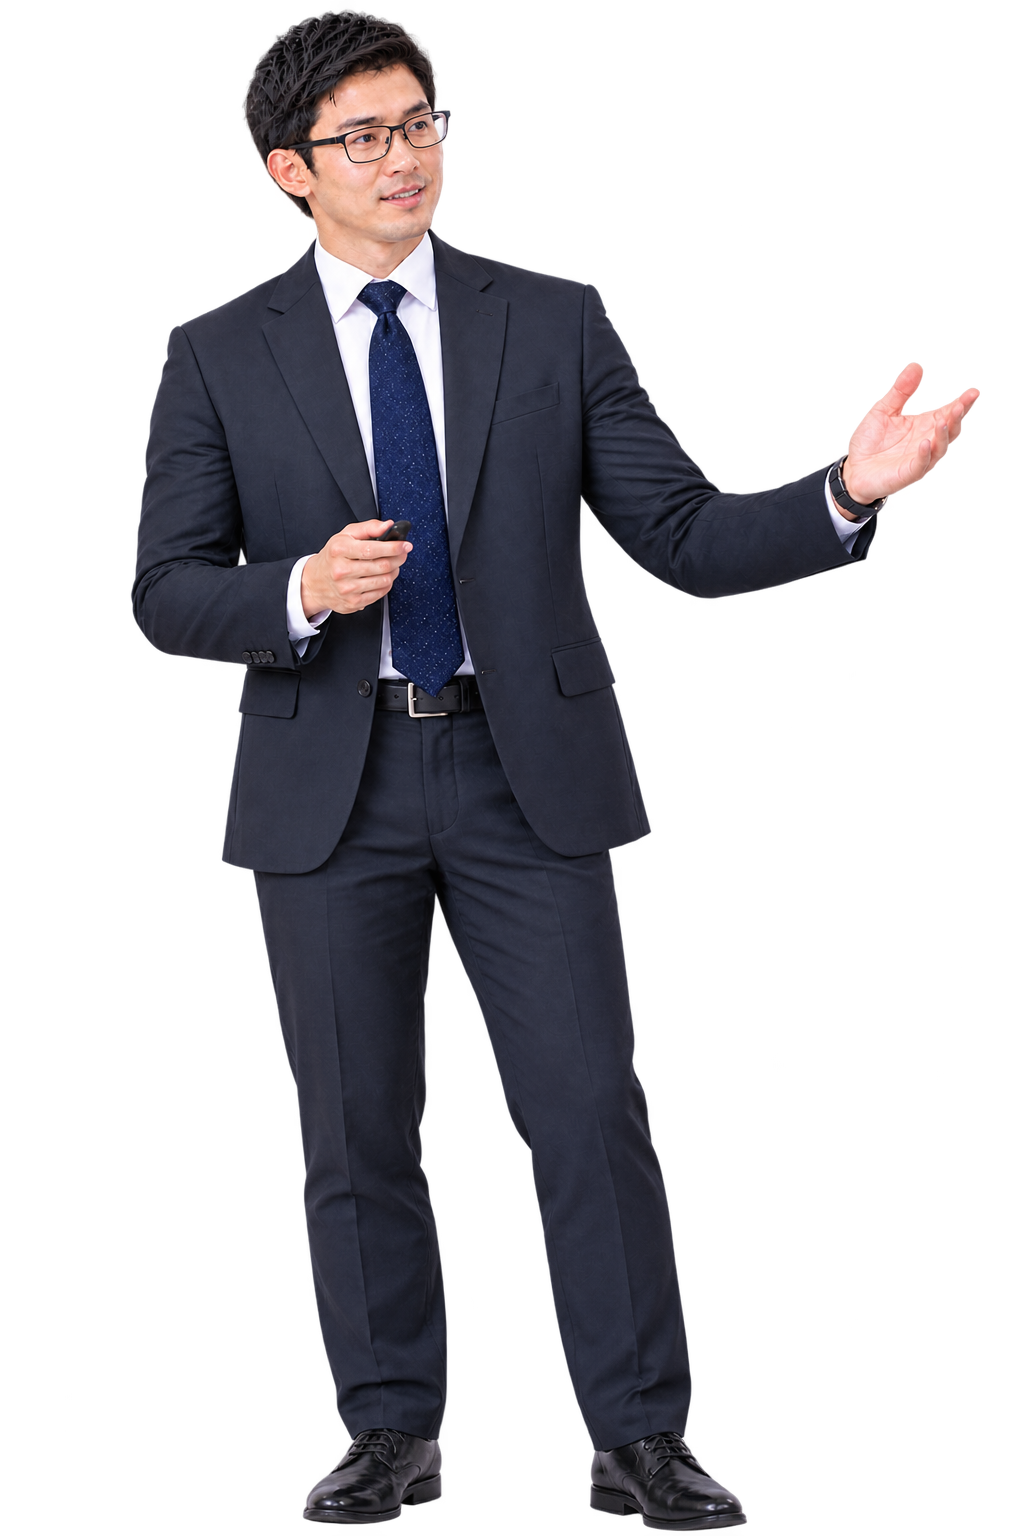
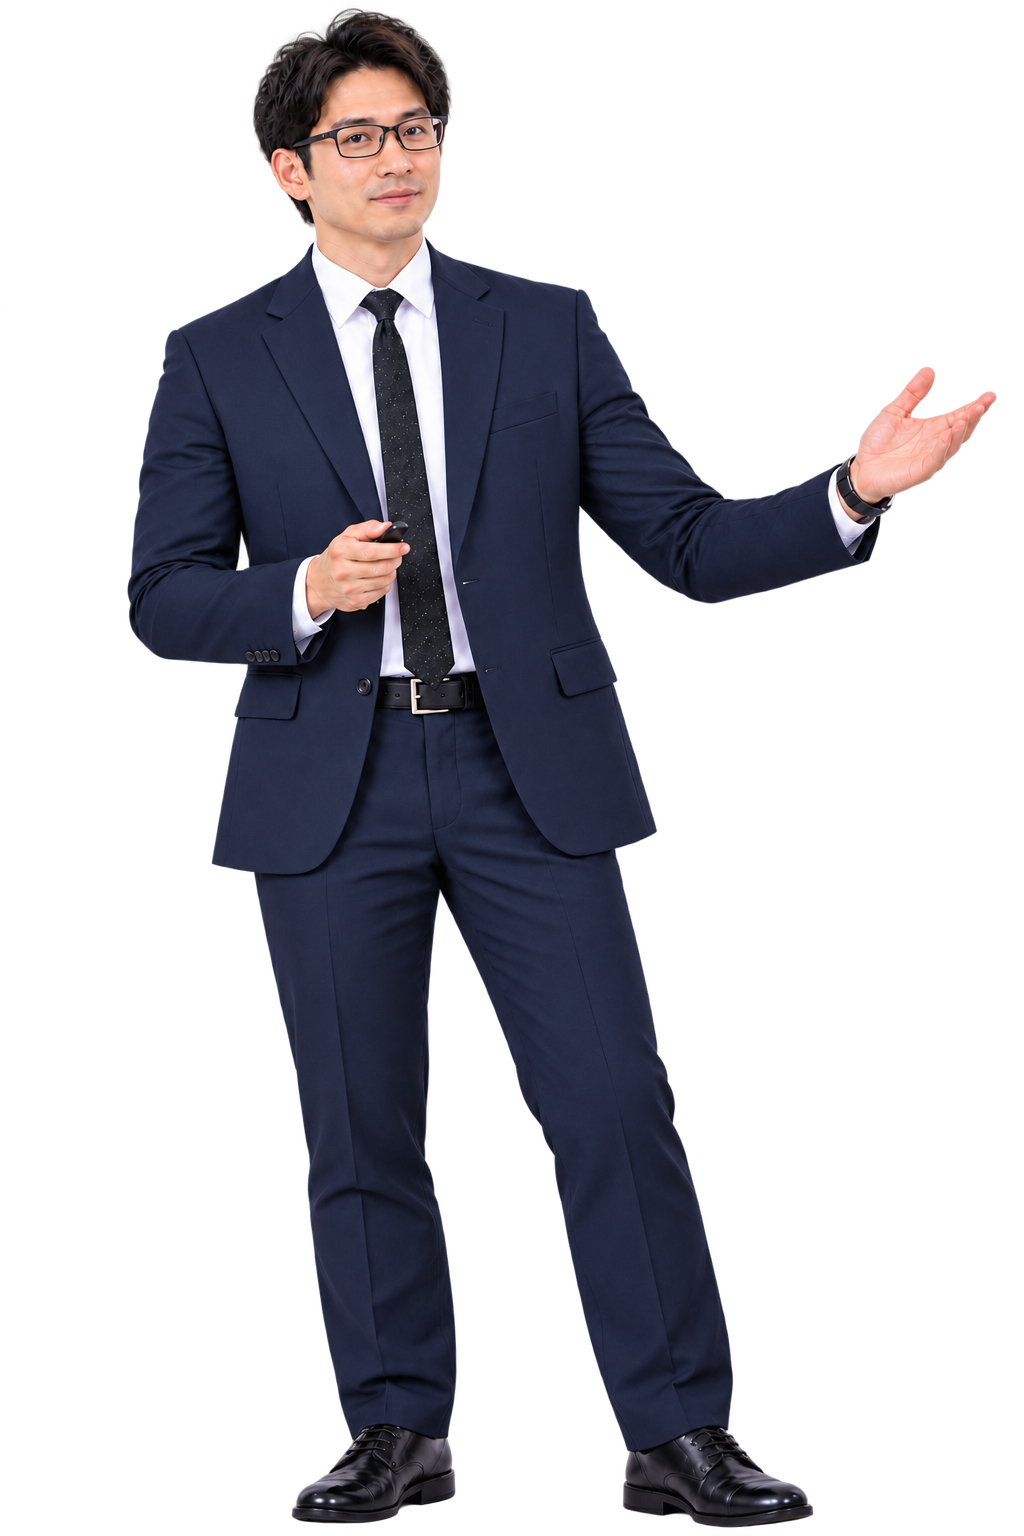
Update: projects

diff --git a/index.html b/index.html
@@ -605,19 +605,19 @@
                     <div class="video-wrapper project-image-one"></div>
                     <div class="video-info">
                         <div class="project-tags">
-                            <span>SaaS</span>
-                            <span>AI Agent</span>
+                            <span>LLM Security</span>
+                            <span>Cyber Lab</span>
                         </div>
-                        <h3 class="video-title">AI Support Copilot</h3>
-                        <p class="video-desc">Customer support platform that summarizes chats, suggests replies, and routes tickets using GPT APIs with secure admin workflows.</p>
+                        <h3 class="video-title">LLMVault</h3>
+                        <p class="video-desc">Hands-on LLM security training platform where developers practice prompt injection, RAG flaws, agent risks, and data leakage through interactive labs and realistic AI scenarios.</p>
                         <div class="project-badges">
-                            <span>Next.js</span>
-                            <span>FastAPI</span>
-                            <span>OpenAI</span>
+                            <span>Python</span>
+                            <span>Flask</span>
+                            <span>Ollama</span>
                         </div>
                         <div class="project-actions">
-                            <a href="#contact" class="project-btn primary">Live Demo</a>
-                            <a href="#contact" class="project-btn secondary">Source Code</a>
+                            <a href="https://james-vault.vercel.app/" class="project-btn primary">Live Demo</a>
+                            <a href="#" class="project-btn secondary">Source Code</a>
                         </div>
                     </div>
                 </div>
@@ -627,19 +627,19 @@
                     <div class="video-wrapper project-image-two"></div>
                     <div class="video-info">
                         <div class="project-tags">
-                            <span>Analytics</span>
-                            <span>B2B SaaS</span>
+                            <span>HTML</span>
+                            <span>Web Design</span>
                         </div>
-                        <h3 class="video-title">RevenueOps Dashboard</h3>
-                        <p class="video-desc">Executive analytics platform for pipeline tracking, retention reporting, and role-based access across sales, product, and finance teams.</p>
+                        <h3 class="video-title">HTML Creator</h3>
+                        <p class="video-desc">A clean HTML generation tool that helps create structured, responsive web pages quickly with reusable sections, semantic layouts, and customizable content blocks for modern websites.</p>
                         <div class="project-badges">
-                            <span>React</span>
-                            <span>Node.js</span>
-                            <span>PostgreSQL</span>
+                            <span>HTML</span>
+                            <span>CSS</span>
+                            <span>JS</span>
                         </div>
                         <div class="project-actions">
-                            <a href="#contact" class="project-btn primary">Live Demo</a>
-                            <a href="#contact" class="project-btn secondary">Source Code</a>
+                            <a href="https://html-creator-next.vercel.app/" class="project-btn primary">Live Demo</a>
+                            <a href="#" class="project-btn secondary">Source Code</a>
                         </div>
                     </div>
                 </div>
@@ -660,8 +660,8 @@
                             <span>AWS</span>
                         </div>
                         <div class="project-actions">
-                            <a href="#contact" class="project-btn primary">Live Demo</a>
-                            <a href="#contact" class="project-btn secondary">Source Code</a>
+                            <a href="https://commerce-coral-eight.vercel.app/" class="project-btn primary">Live Demo</a>
+                            <a href="#" class="project-btn secondary">Source Code</a>
                         </div>
                     </div>
                 </div>
@@ -683,7 +683,7 @@
                 </p>
             </div>
 
-            <div class="testimonials-wrapper reveal">
+            <div class="testimonials-wrapper reveal"> 
                 <div class="testimonial-slider">
                     <div class="testimonial-track" id="testimonialTrack">
                         <div class="testimonial-slide">
@@ -801,7 +801,7 @@
                             </div>
                             <div>
                                 <h4>Email</h4>
-                                <a href="mailto:Jamesrajput10m@gmail.com">jamescarter11333@gmail.com</a>
+                                <a href="mailto:elitewarrior@gmail.com">jamescarter11333@gmail.com</a>
                             </div>
                         </div>
 
@@ -831,12 +831,12 @@
                     <div class="form-row">
                         <div class="form-group">
                             <label for="name">Your Name <span class="required">*</span></label>
-                            <input type="text" id="name" name="name" placeholder="Rahul Yadav" required
+                            <input type="text" id="name" name="name" placeholder="James Carter" required
                                 autocomplete="name">
                         </div>
                         <div class="form-group">
                             <label for="email">Your Email <span class="required">*</span></label>
-                            <input type="email" id="email" name="email" placeholder="vishal@example.com" required
+                            <input type="email" id="email" name="email" placeholder="jamescarter11333@gmail.com" required
                                 autocomplete="email">
                         </div>
                     </div>

diff --git a/style.css b/style.css
@@ -2277,20 +2277,20 @@ html[data-theme="light"] .portfolio-video-card:hover {
 }
 
 .project-image-one {
-    background-image: linear-gradient(180deg, rgba(15, 23, 42, 0.26), rgba(7, 12, 24, 0.72)), url('https://images.unsplash.com/photo-1555949963-aa79dcee981c?auto=format&fit=crop&w=900&q=80');
+    background-image: linear-gradient(180deg, rgba(8, 14, 24, 0.42), rgba(8, 14, 24, 0.8)), url('https://images.unsplash.com/photo-1518770660439-4636190af475?auto=format&fit=crop&w=1200&q=80');
     background-size: cover;
     background-position: center;
     background-color: var(--bg-base);
 }
 
 .project-image-two {
-    background-image: linear-gradient(180deg, rgba(8, 18, 24, 0.18), rgba(8, 18, 24, 0.62)), url('https://images.unsplash.com/photo-1551288049-bebda4e38f71?auto=format&fit=crop&w=900&q=80');
+    background-image: linear-gradient(180deg, rgba(14, 22, 30, 0.18), rgba(14, 22, 30, 0.72)), url('https://images.unsplash.com/photo-1677442136019-21780ecad995?auto=format&fit=crop&w=1200&q=80');
     background-size: cover;
     background-position: center;
 }
 
 .project-image-three {
-    background-image: linear-gradient(180deg, rgba(18, 13, 27, 0.18), rgba(18, 13, 27, 0.62)), url('https://images.unsplash.com/photo-1524758631624-e2822e304c36?auto=format&fit=crop&w=900&q=80');
+    background-image: linear-gradient(180deg, rgba(14, 20, 28, 0.28), rgba(14, 20, 28, 0.72)), url('https://images.unsplash.com/photo-1524758631624-e2822e304c36?auto=format&fit=crop&w=1200&q=80');
     background-size: cover;
     background-position: center;
 }
